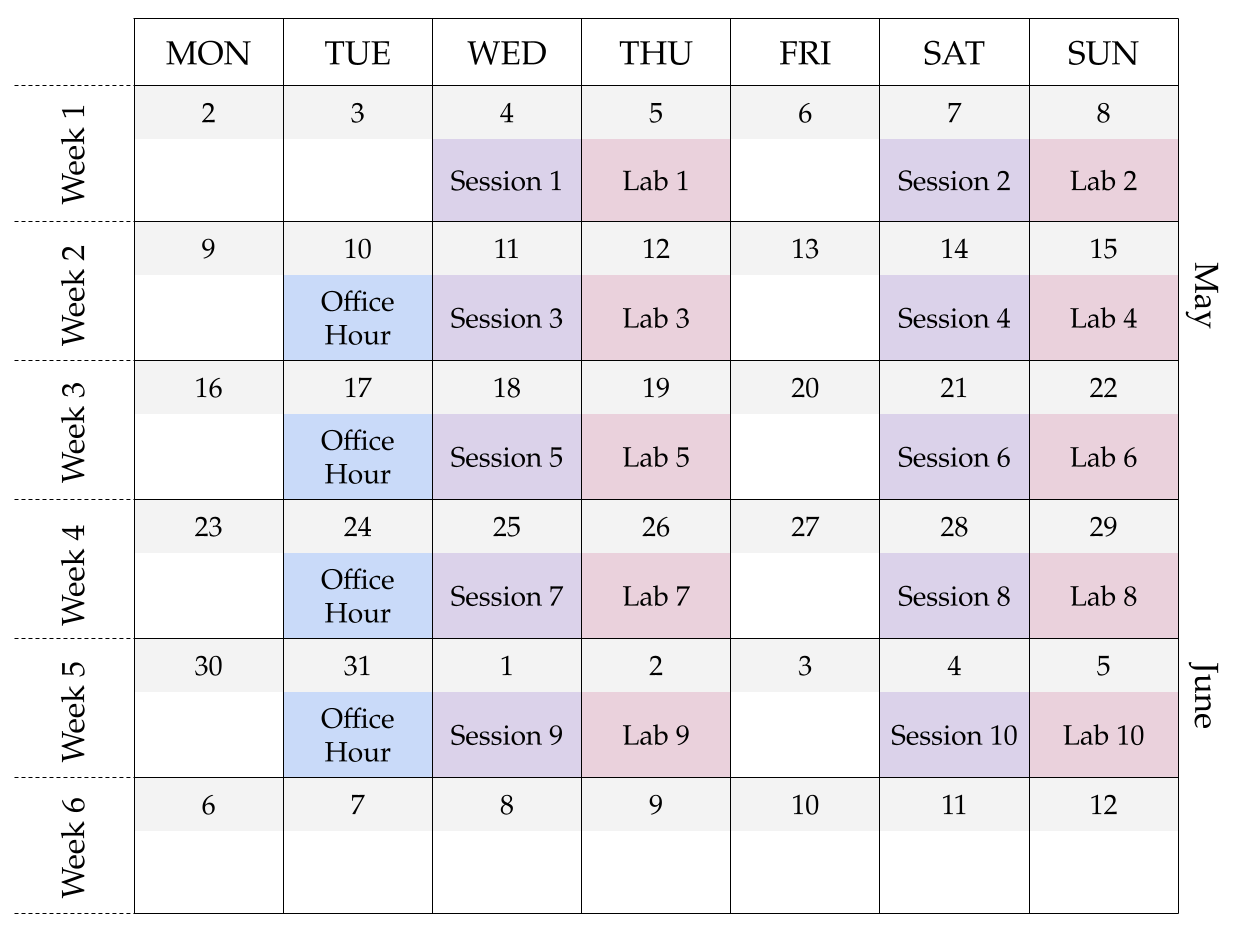
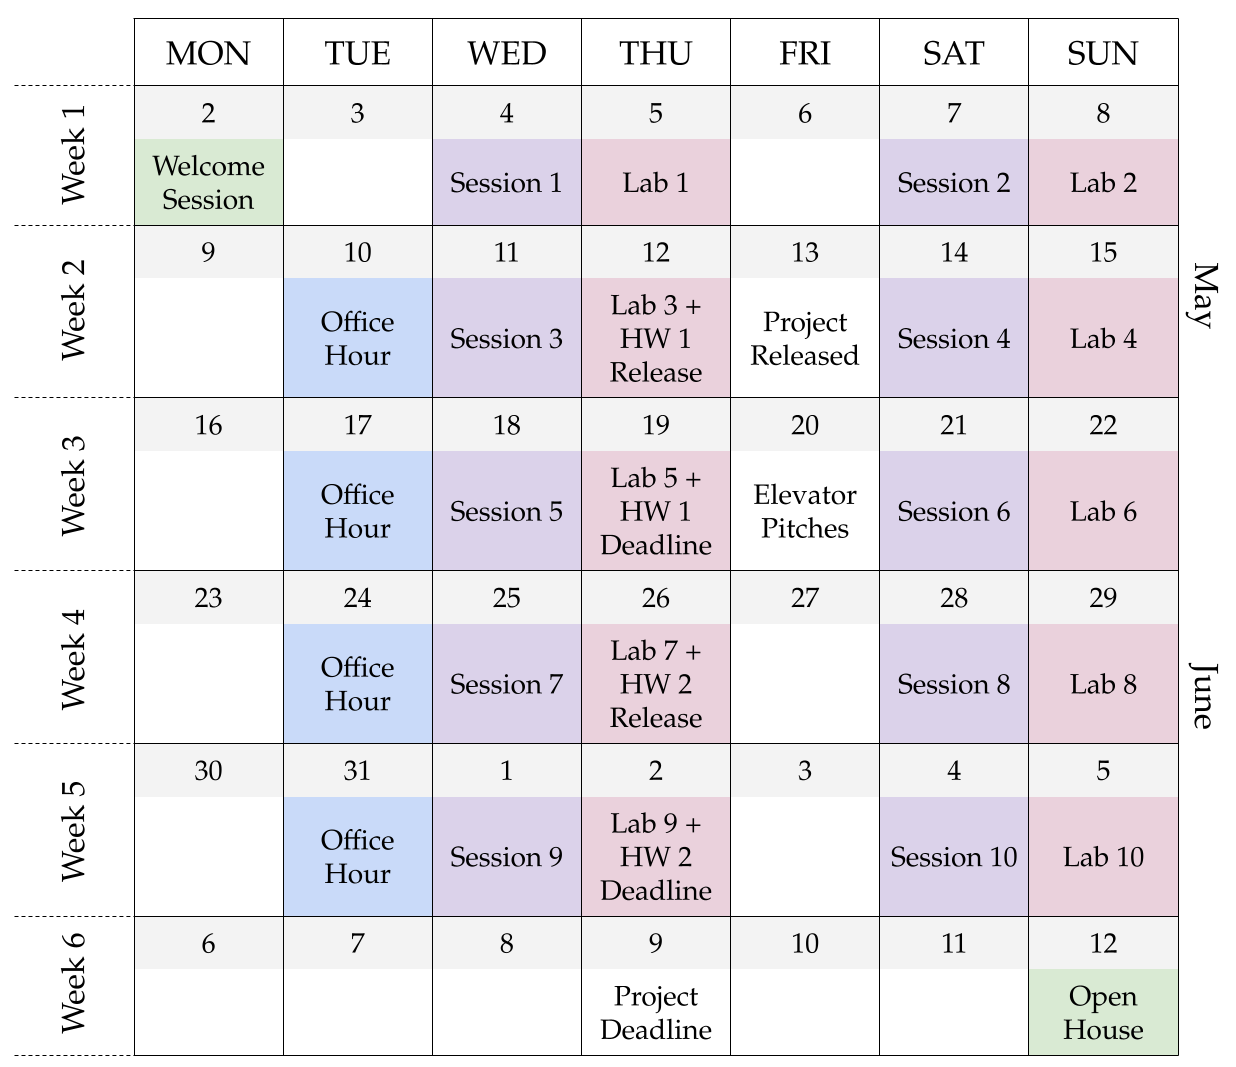
Update ds1c3

diff --git a/_courses/ds1.md b/_courses/ds1.md
@@ -278,30 +278,30 @@ A lab is a TA driven 1.5 hour session that is divided into 3 major parts.
 
 Coming Soon!
 
-<!--
+
 #### Welcome Session - Preparing for this class
 
-There will be a Welcome Session scheduled on **09 January 2022** at **9:00 PM IST** for all registered students.
+There will be a Welcome Session scheduled on **02 May 2022** at ```8:30 PM IST [11:00 AM ET]``` for all registered students.
 
 Please check your mail for more information.
--->
+
 
 ![](/assets/ds1-c3.assets/Schedule.png)
 
 
 **Lecture Sessions:**
 
-- Wednesday Series: ```8:30 PM - 10:00 PM IST [11:00 AM - 12:30 PM EST]```
-- Saturday Series: ```8:30 PM - 10:00 PM IST [11:00 AM - 12:30 PM EST]```
+- Wednesday Series: ```8:30 PM - 10:00 PM IST [11:00 AM - 12:30 PM ET]```
+- Saturday Series: ```8:30 PM - 10:00 PM IST [11:00 AM - 12:30 PM ET]```
 
 **Lab Sessions:**
 
-- Thursday Series: ```9:00 PM - 11:00 PM IST [12:00 Noon - 1:30 PM EST]```
-- Sunday Series: ```9:00 PM - 11:00 PM IST [12:00 Noon - 1:30 PM EST]```
+- Thursday Series: ```9:00 PM - 11:00 PM IST [12:00 Noon - 1:30 PM ET]```
+- Sunday Series: ```9:00 PM - 11:00 PM IST [12:00 Noon - 1:30 PM ET]```
 
 **Office hours:**
 
-- Tuesdays: ```9:00 PM - 10:00 PM IST [11:30 AM - 12:30 PM EST]```
+- Tuesdays: ```9:00 PM - 10:00 PM IST [11:30 AM - 12:30 PM ET]```
 
 
 ## Course Pre-Requisites
